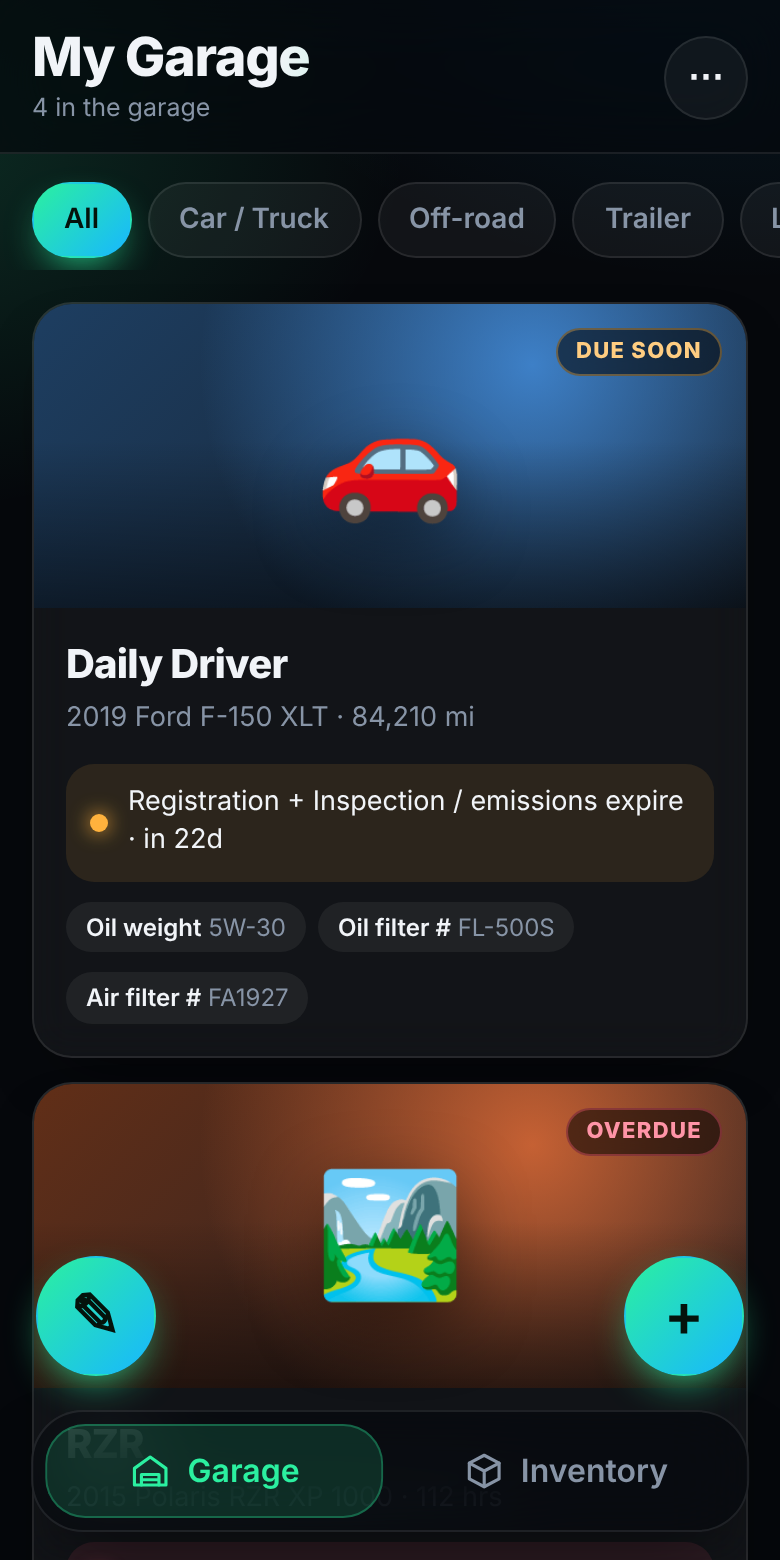
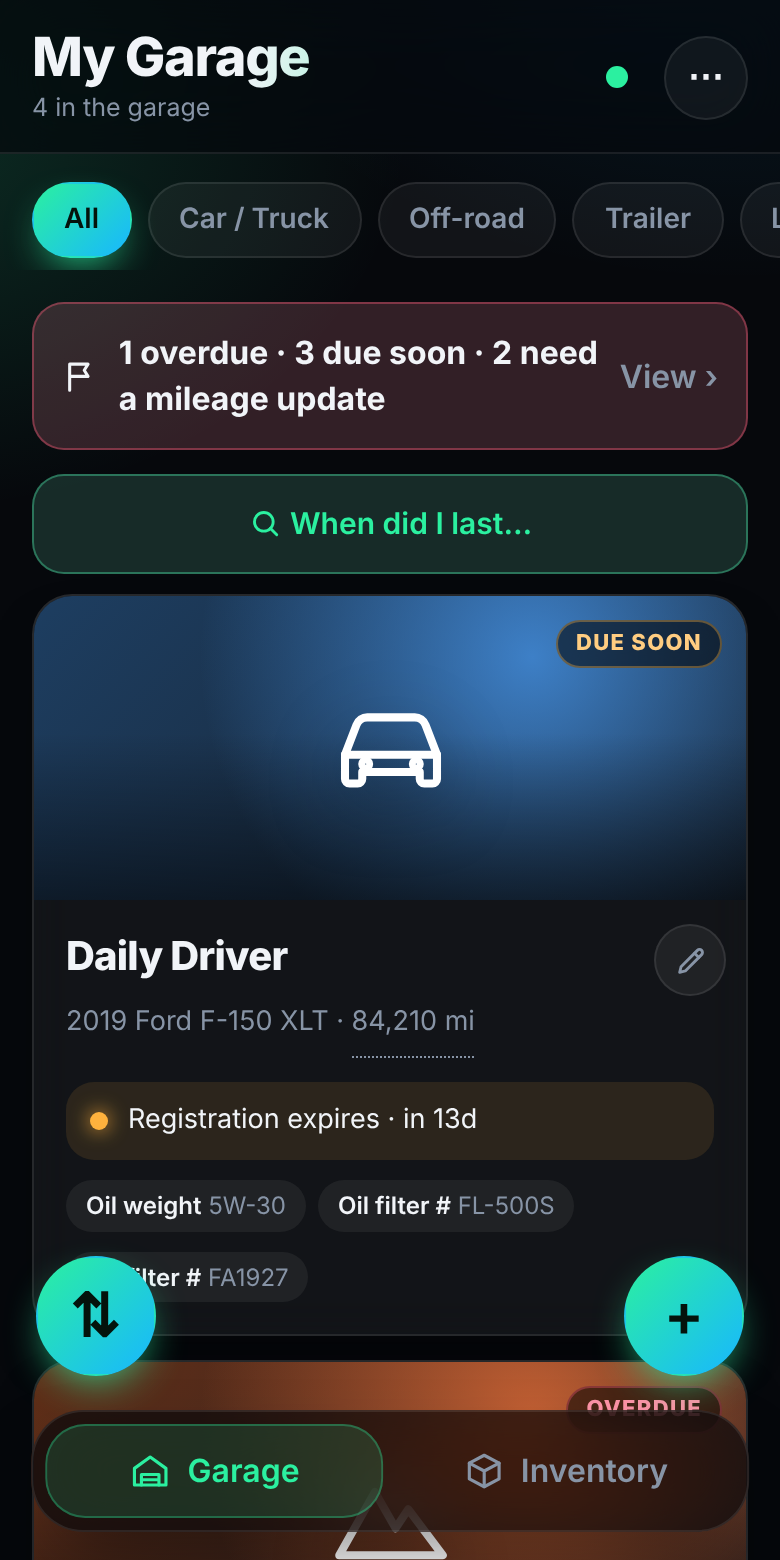
Update README and screenshots for 1.15
Claude-Session: https://claude.ai/code/session_01Wbf6PZJ49NJszqx6ozWoW2

diff --git a/README.md b/README.md
@@ -1,26 +1,31 @@
 # Garage Log
 
-A self-hosted maintenance log for the things in your garage: cars and trucks, UTVs, ATVs and dirt bikes, trailers, mowers and anything else with an engine. It runs as one small container on your own server (built for TrueNAS), keeps everything in one data folder, and has no cost tracking or accounts to manage.
+A self-hosted maintenance log for the things in your garage: cars and trucks, UTVs, ATVs and dirt bikes, trailers, mowers and anything else with an engine. It runs as one small container on your own server (built for TrueNAS), keeps everything in one data folder, and has no cost tracking or accounts to manage. There is also an [Android app](https://github.com/Orangitaz/GarageLogger-Android) that works on its own or syncs with your server.
 
 <p>
-<img src="screenshots/garage.png" width="23%" alt="My Garage">
-<img src="screenshots/dashboard.png" width="23%" alt="Equipment dashboard">
-<img src="screenshots/service-form.png" width="23%" alt="Logging a service">
-<img src="screenshots/dashboard-light.png" width="23%" alt="Light theme">
+<img src="screenshots/garage.png" width="31%" alt="My Garage">
+<img src="screenshots/dashboard.png" width="31%" alt="Equipment dashboard">
+<img src="screenshots/timeline.png" width="31%" alt="Timeline of services, repairs and upgrades">
+</p>
+<p>
+<img src="screenshots/attention.png" width="31%" alt="Needs attention list with Done and Snooze">
+<img src="screenshots/service-form.png" width="31%" alt="Logging a service">
+<img src="screenshots/dashboard-light.png" width="31%" alt="Light theme">
 </p>
 
 *Screenshots show sample data.*
 
 ## What it does
-- **Garage and dashboards:** every piece of equipment gets a card with a status, and a dashboard with upcoming reminders and recent services and repairs.
-- **Service, repair and upgrade records** with notes, photos, receipts, quick-pick services and parts used. Parts used are either **bought for this job** or **taken from inventory** (which deducts the stock automatically).
-- **Reminders** by date, miles or hours, with repeats (every 6 months, 1, 2 or 3 years). Mileage reminders show an estimated date. Registration, the OHV sticker and your own dates (inspection, emissions, insurance) renew with one tap.
-- **Parts and specs list** per piece of equipment, plus an **inventory** of oil, filters and supplies with low-stock badges. Both can list several part numbers or brands per entry.
-- **Alerts** to your phone through ntfy, Home Assistant or Gotify, and a status feed for Home Assistant dashboards.
-- **Fast logging:** **Log again** copies an earlier service, **quick jobs** remember parts and intervals, tap the odometer on a garage card to update it, and **Snooze** pushes a reminder back.
-- **Recalls:** a dashboard card with a Copy VIN button and a link to nhtsa.gov/recalls, where open recalls can be checked by VIN.
-- **Documents** (PDFs and photos), **printable service history**, **CSV export**, **"when did I last" search**, **archive** for sold equipment, and **Undo** for deletes.
-- Works on phones and computers, installs like an app, keeps working offline, and merges edits from two devices. Dark and light themes. Optional password.
+- **Garage and dashboards:** every piece of equipment gets a card with a status and a dashboard with upcoming reminders and recent services and repairs. A **Needs attention** list shows what is overdue, due soon or needs a fresh odometer reading, with **Done** and **Snooze** right there.
+- **Service, repair and upgrade records** with notes, photos, receipts, quick-pick services, who did the work, and parts used. Parts are either **bought for this job** or **taken from inventory** (which deducts the stock). A **Timeline** tab shows all three together.
+- **Reminders** by date, miles or hours, with repeats (every 6 months, 1, 2 or 3 years, custom, or "every April"). Mileage reminders show an estimated date. Registration, the OHV sticker, warranty dates and your own dates (inspection, emissions, insurance) renew with one tap. After you add equipment, pick from a list of **common reminders** for that kind.
+- **Parts and specs list** per piece of equipment, plus an **inventory** of oil, filters and supplies with low-stock badges and optional **where to buy** links. Several part numbers or brands per entry, with a camera button to scan barcodes and VINs.
+- **Checklists** (before a ride, spring start-up, winterize) and **tire sets** with tread depth.
+- **Fast logging:** **Log again** copies an earlier service, **quick jobs** remember parts and intervals, tap the odometer on a garage card to update it, swipe a reminder to finish or snooze it.
+- **Finding things:** **When did I last…** searches every piece of equipment for a job or part, and each timeline has its own search and filters.
+- **Reports and records:** documents (PDFs and photos), a printable **service history**, a **full history report** with photos, a one-record share page for a sale or a shop, **CSV export**, a link to **nhtsa.gov/recalls** with your VIN copied, **archive** for sold equipment, and **Undo** for deletes.
+- **Alerts** to your phone through ntfy, Home Assistant or Gotify, a calendar feed, a status feed for Home Assistant dashboards, and a **view-only link** to share your garage.
+- Works on phones and computers, installs like an app, keeps working offline, and merges edits from two devices. Dark and light themes, three text sizes, built-in **Help**, and a **connection log** for troubleshooting sync. Optional password.
 
 One image, one port, one data folder. No YAML needed.
 
